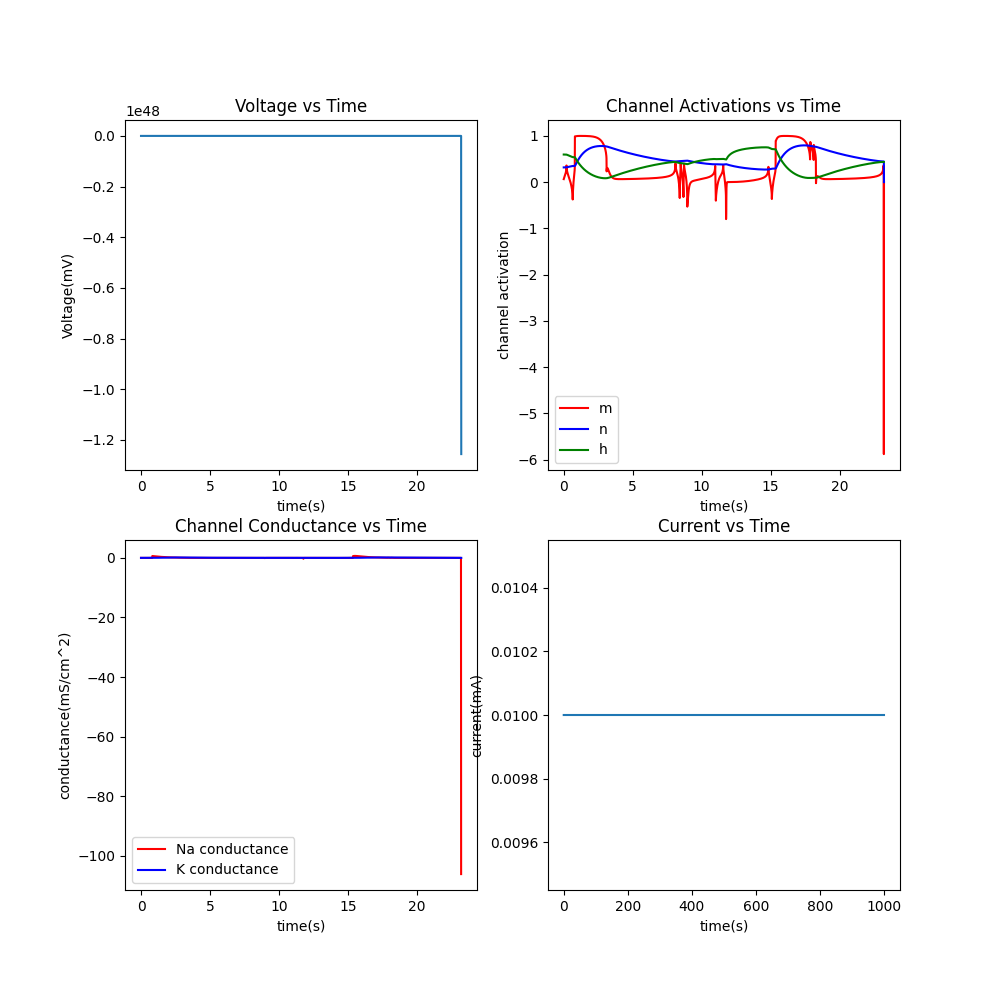
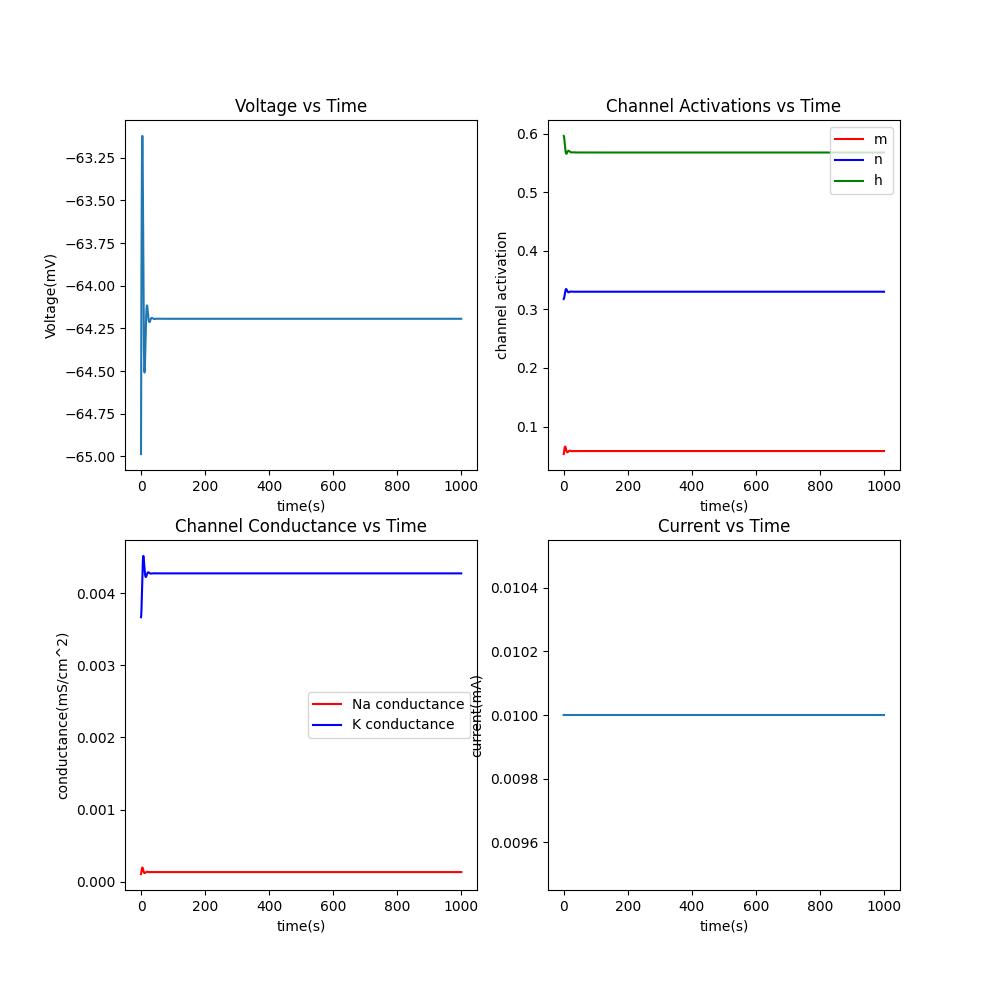
commit simulation functional

diff --git a/src/model.py b/src/model.py
@@ -46,10 +46,10 @@ class HHModel:
     def _v(self, it):
         v_inf = self.v_inf(it)
         tauv = self.tauv(it)
-        return v_inf + (self.v - v_inf)*np.exp(-self.dt/tauv, dtype= dtype)
+        return v_inf + (self.v - v_inf)*np.exp(-self.dt/tauv, dtype = dtype)
     
     def alpha_m(self):
-        return 0.1*(self.v + 40)/(1-np.exp(-(self.v + 55)/10, dtype= dtype))
+        return 0.1*(self.v + 40)/(1-np.exp(-(self.v + 40)/10, dtype= dtype))
 
     def beta_m(self):
         return 4*np.exp(-0.0556*(self.v + 65), dtype= dtype)

diff --git a/main.py b/main.py
@@ -3,9 +3,9 @@ import numpy as np
 import matplotlib.pyplot as plt
 
 
-I_inp = 0.01
+I_inp = 0.1
 dt = 0.01
-niter = 100000
+niter = 10000
 I_pat = np.ones(niter)
 hh = HHModel(dt, niter)
 hh(I_inp, I_pat)
